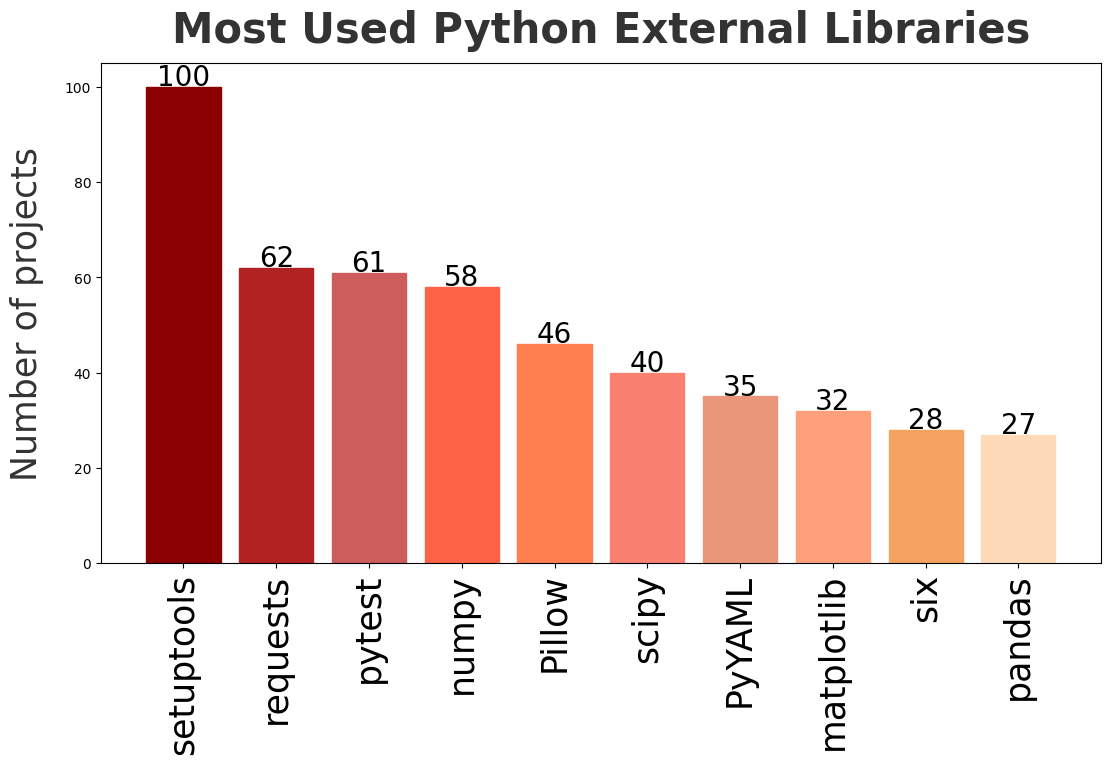
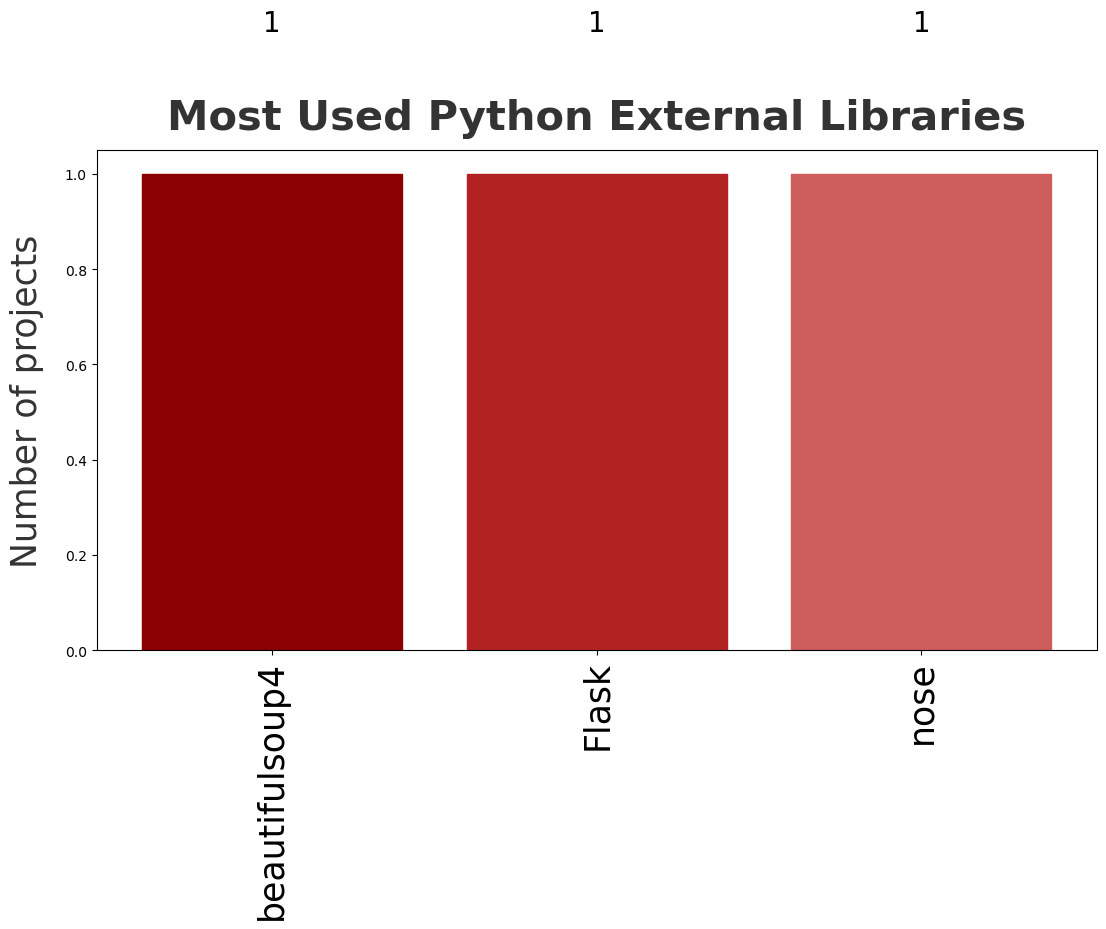
Fix analyze my project

diff --git a/cmd/cli/main.py b/cmd/cli/main.py
@@ -1,10 +1,13 @@
 import json
-import os, sys
-sys.path.append('.')
+import os
+import sys
+
 import app.get_all_paths as paths
 import app.list_libs as list
 import app.plot_top10 as plot
 import click
+
+sys.path.append('.')
 
 
 @click.group()
@@ -69,8 +72,44 @@ def analyzing_git_repos():
     # escrever onde os arquivos foram gerados
 
 @pysniffer.command("analyzing_my_project")
-def analyzing_my_project():
+@click.option('--dir',
+              type=click.STRING,
+              help='What is the directory of your project?')
+def analyzing_my_project(dir:str):
     """Generate statistics for my project"""
+
+    print("##################################################################")
+    print("              PySniffer - Generate My Project Statistics          ")
+    print("##################################################################")
+
+    #Counting files and getting projects list
+    projects_dict,total = paths.get_projects(dir)
+    projects = projects_dict.keys()
+
+    #Creating json file
+    with open('./returns_my_project/files.json', 'w', encoding='utf-8') as f:
+        json.dump(projects_dict, f, ensure_ascii=False, indent=4)
+
+    #Using pipreqs
+    for p in projects:
+        path = dir + '/' + p
+        os.system(f'python pipreqs/pipreqs.py {path} --force')
+
+    #Reading requirements file and generating list
+    ext_libs,std_libs = list.list_projects_libs(dir, projects)
+
+    #Creating json file
+    with open('./returns_my_project/libs.json', 'w', encoding='utf-8') as f:
+       json.dump(ext_libs, f, ensure_ascii=False, indent=4)
+
+    with open('./returns_my_project/libs_Py.json', 'w', encoding='utf-8') as f:
+       json.dump(std_libs, f, ensure_ascii=False, indent=4)
+
+
+    #ANALIZAR SE AS BIBLIOTECAS DO PROJETO SE ENCONTRAM ENTRE AS MAIS USADAS
+    #OFERECER RETORNO AO USUARIO DAS LIBS QUE APERECE E AS QUE NAO APARECEM ENTRE AS MAIS UTILIZADAS (DATAFRAME)
+
+    #
 
 
 if __name__ == "__main__":

diff --git a/pipreqs/pipreqs.py b/pipreqs/pipreqs.py
@@ -140,8 +140,7 @@ def get_all_imports(
         # as an import.
         cleaned_name, _, _ = name.partition('.')
         imports.add(cleaned_name)
-
-    packages = imports - (set(candidates) & imports)
+    packages = imports - (set(candidates) & imports) #ERRO TA AQUI
     logging.debug('Found packages: {0}'.format(packages))
 
     with open(join("stdlib"), "r") as f:
